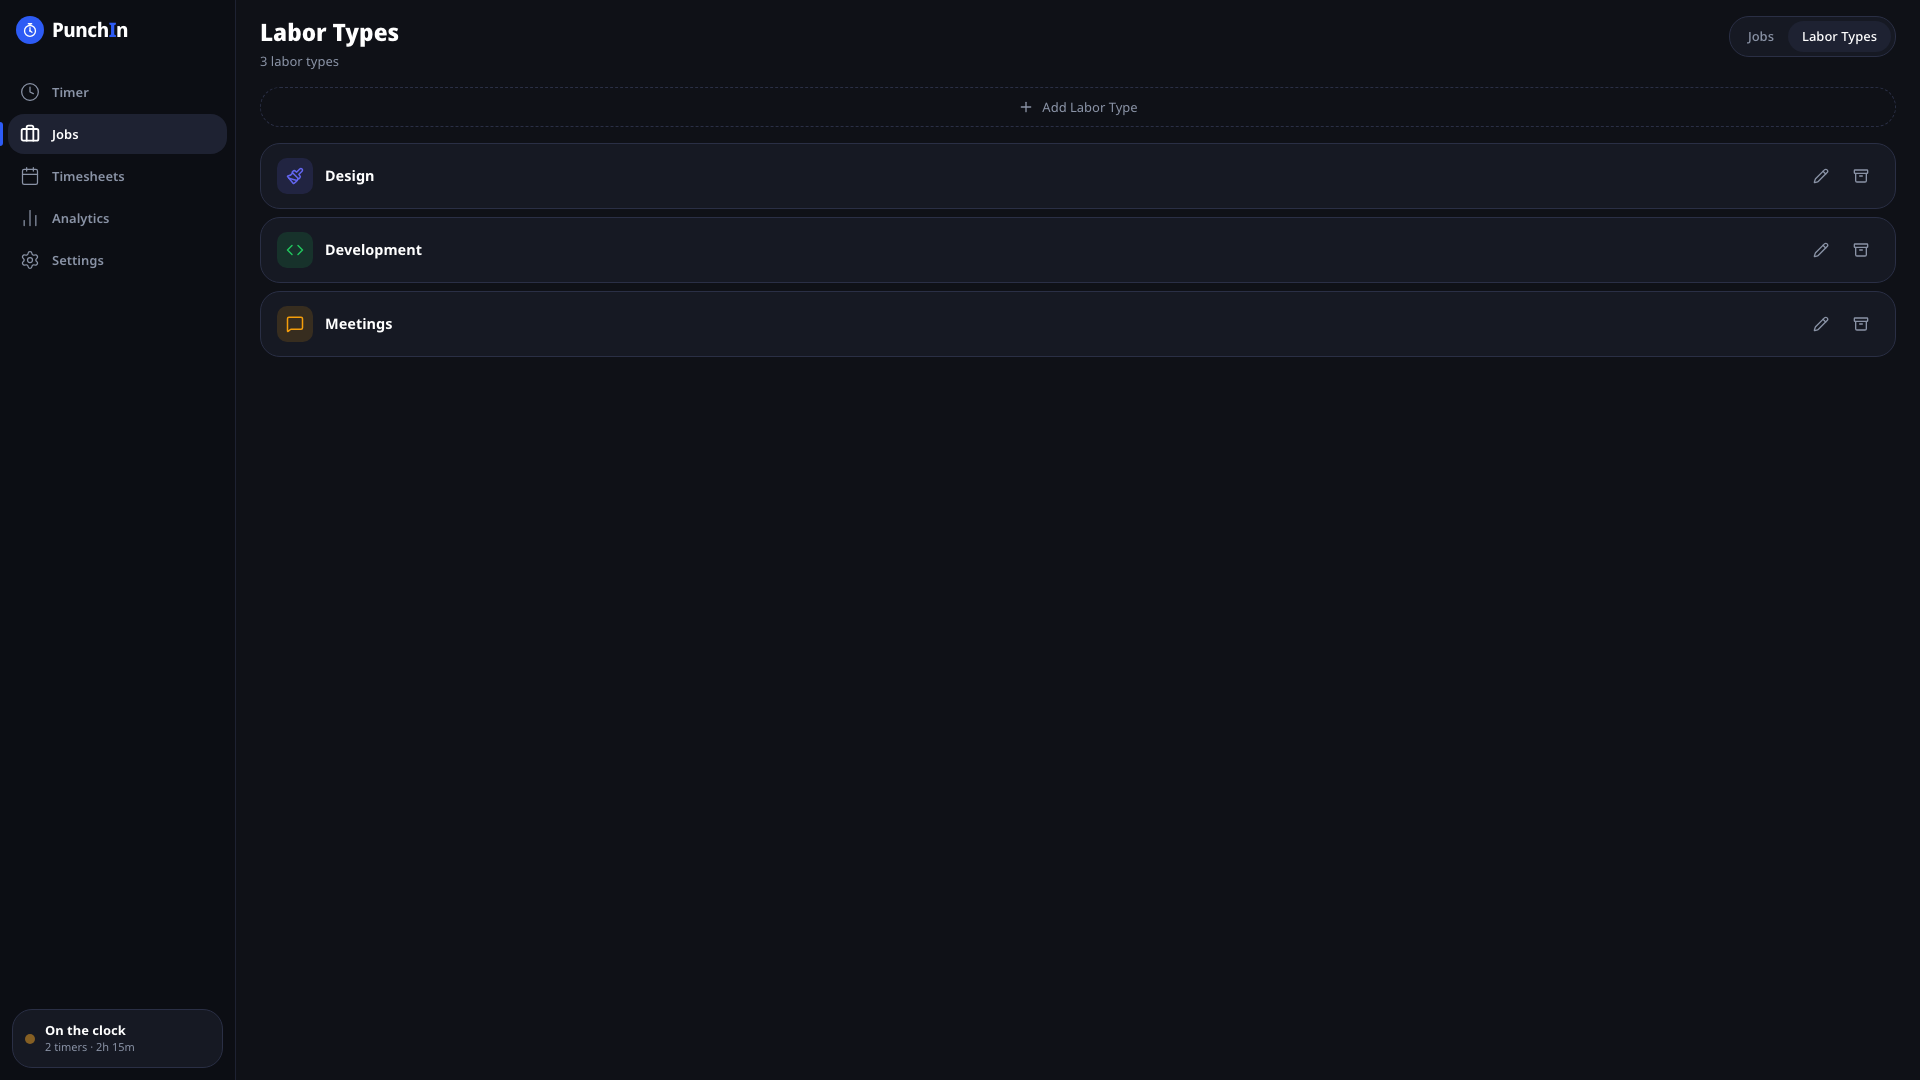
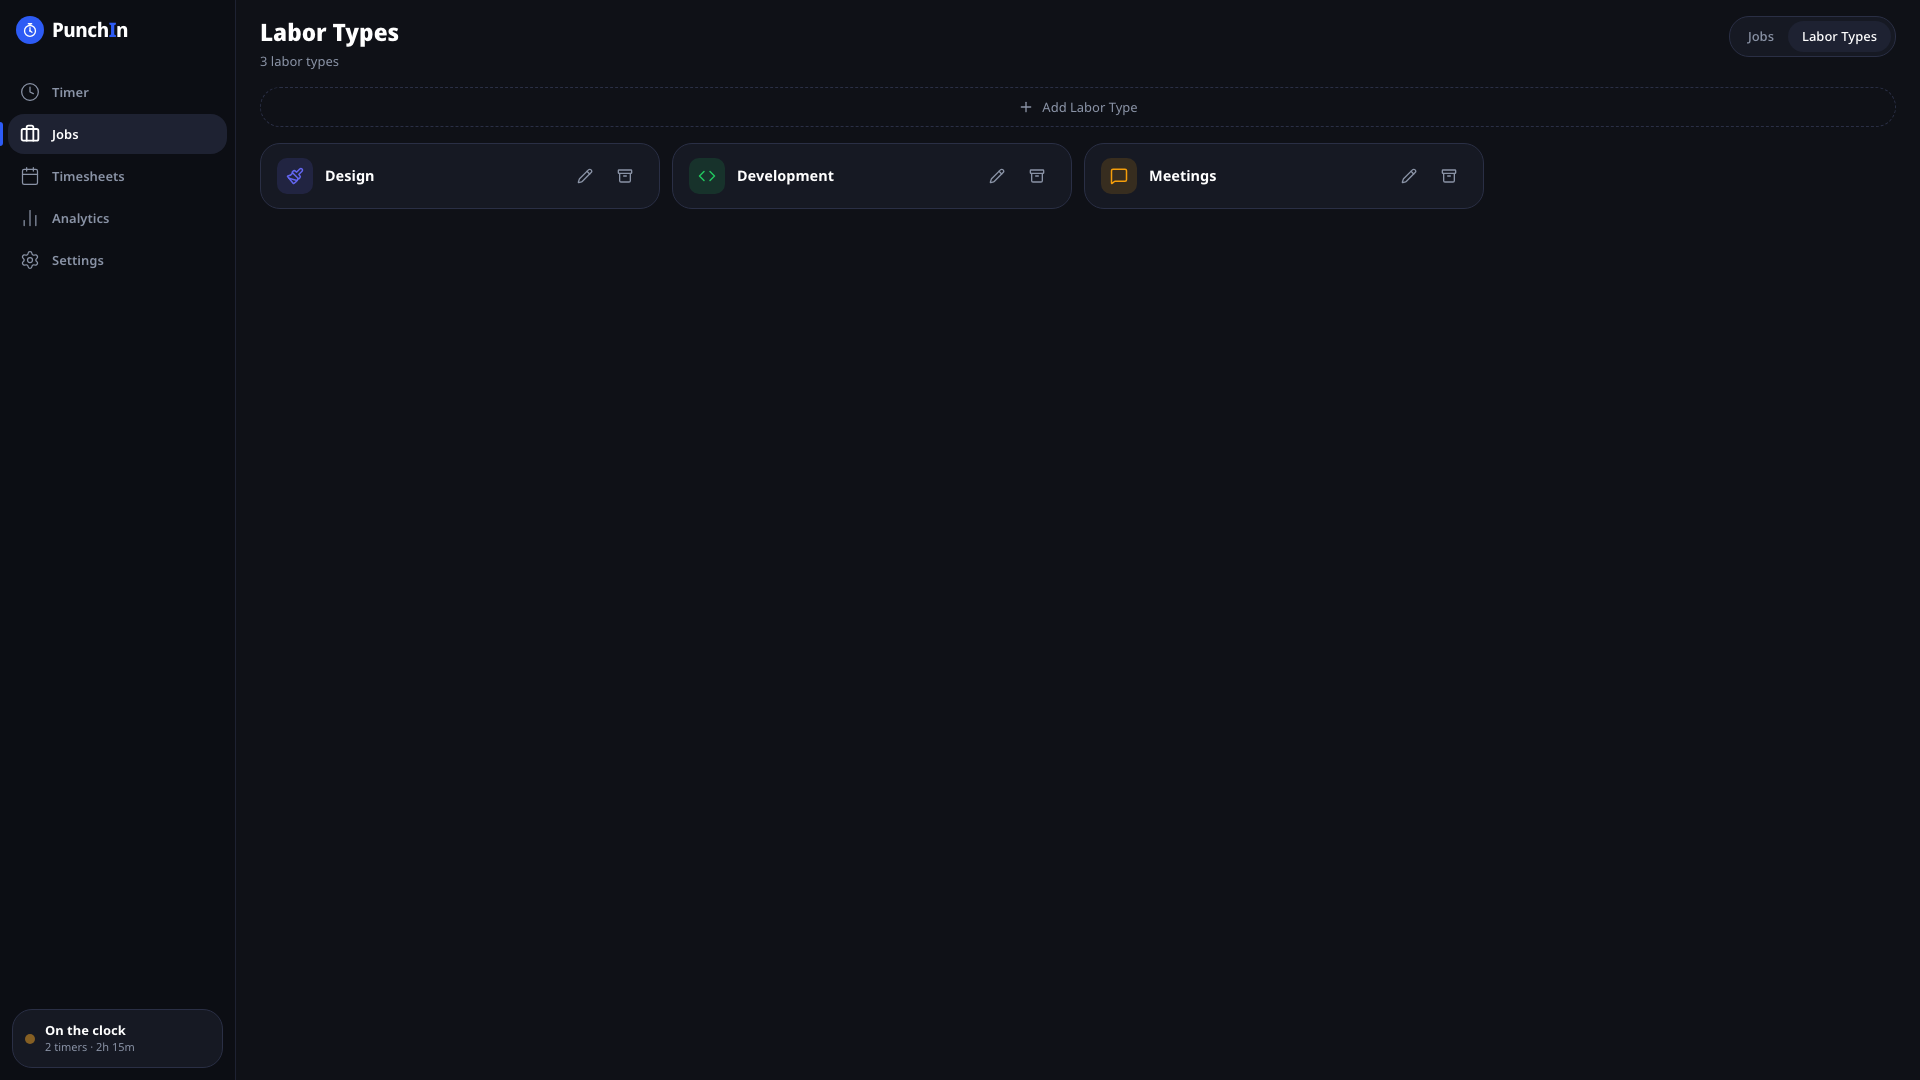
fix(design): job-colour timer accent + responsive Jobs/Labor grid
Live-review feedback:
- The active timer card's left rail + live clock used the labor-type
  colour; now they use the job's own colour (job.color), falling back to
  the labor colour. TDD covers the precedence + fallback.
- The Jobs grid was fixed 2-up, so cards sprawled huge on wide screens.
  Now responsive: 1 / md:2 / xl:3 / 2xl:4 — 3–4 smaller cards across on a
  desktop. Edit form spans the full row (col-span-full).
- The Labor Types list was full-width while job cards were card-width; it
  now uses the same grid, so labor rows match the job-card width.

diff --git a/src/views/JobsView.jsx b/src/views/JobsView.jsx
@@ -287,12 +287,12 @@ export default function JobsView() {
               </div>
             )}
 
-            <div className="grid grid-cols-1 lg:grid-cols-2 gap-3">
+            <div className="grid grid-cols-1 md:grid-cols-2 xl:grid-cols-3 2xl:grid-cols-4 gap-3">
               {jobs?.filter(j => j.isActive !== false).map(job => {
                 const lt = laborTypes?.find(l => l.id === job.laborTypeId)
                 const rateCount = Object.keys(job.laborRates || {}).length
                 if (editingJob?.id === job.id)
-                  return <div key={job.id} className="lg:col-span-2"><JobForm job={job} laborTypes={laborTypes} onDone={() => setEditingJob(null)} /></div>
+                  return <div key={job.id} className="col-span-full"><JobForm job={job} laborTypes={laborTypes} onDone={() => setEditingJob(null)} /></div>
                 return (
                   <div key={job.id} className="relative rounded-xl border border-appBorder bg-appCard overflow-hidden transition-all duration-200">
                     {/* ticket left-rail in the job's labor colour */}
@@ -419,10 +419,10 @@ export default function JobsView() {
               </div>
             )}
 
-            <div className="space-y-2">
+            <div className="grid grid-cols-1 md:grid-cols-2 xl:grid-cols-3 2xl:grid-cols-4 gap-3">
             {laborTypes?.filter(lt => !lt.isArchived).map(lt => {
               if (editingLT?.id === lt.id)
-                return <LaborTypeForm key={lt.id} lt={lt} onDone={() => setEditingLT(null)} />
+                return <div key={lt.id} className="col-span-full"><LaborTypeForm lt={lt} onDone={() => setEditingLT(null)} /></div>
               return (
                 <div key={lt.id}
                   className="flex items-center justify-between rounded-xl border border-appBorder bg-appCard px-4 py-3.5 transition-all duration-200">

diff --git a/src/components/TimerCard.test.jsx b/src/components/TimerCard.test.jsx
@@ -81,6 +81,18 @@ describe('TimerCard — rendering', () => {
   })
 })
 
+describe('TimerCard — colour accent', () => {
+  it("uses the job's colour for the accent, overriding the labor type", () => {
+    render(<TimerCard entry={ENTRY} job={{ ...JOB, color: '#FF0000' }} laborType={LABOR_TYPE} />)
+    expect(screen.getByRole('timer')).toHaveStyle({ color: 'rgb(255, 0, 0)' })
+  })
+
+  it('falls back to the labor type colour when the job has no colour', () => {
+    render(<TimerCard entry={ENTRY} job={JOB} laborType={LABOR_TYPE} />)
+    expect(screen.getByRole('timer')).toHaveStyle({ color: 'rgb(99, 102, 241)' })
+  })
+})
+
 describe('TimerCard — background pause (#142)', () => {
   afterEach(() => {
     vi.useRealTimers()

diff --git a/src/components/TimerCard.jsx b/src/components/TimerCard.jsx
@@ -42,7 +42,9 @@ export default function TimerCard({ entry, job, laborType }) {
     await db.entries.update(entry.id, { punchOut: new Date() })
   }
 
-  const color = laborType?.color || '#6366F1'
+  // The card's accent (left rail + live clock) is the job's identity colour,
+  // falling back to its labor type's colour, then the default.
+  const color = job?.color || laborType?.color || '#6366F1'
   const isOvernight = elapsed > 43200000 // 12 hours in milliseconds
 
   return (
